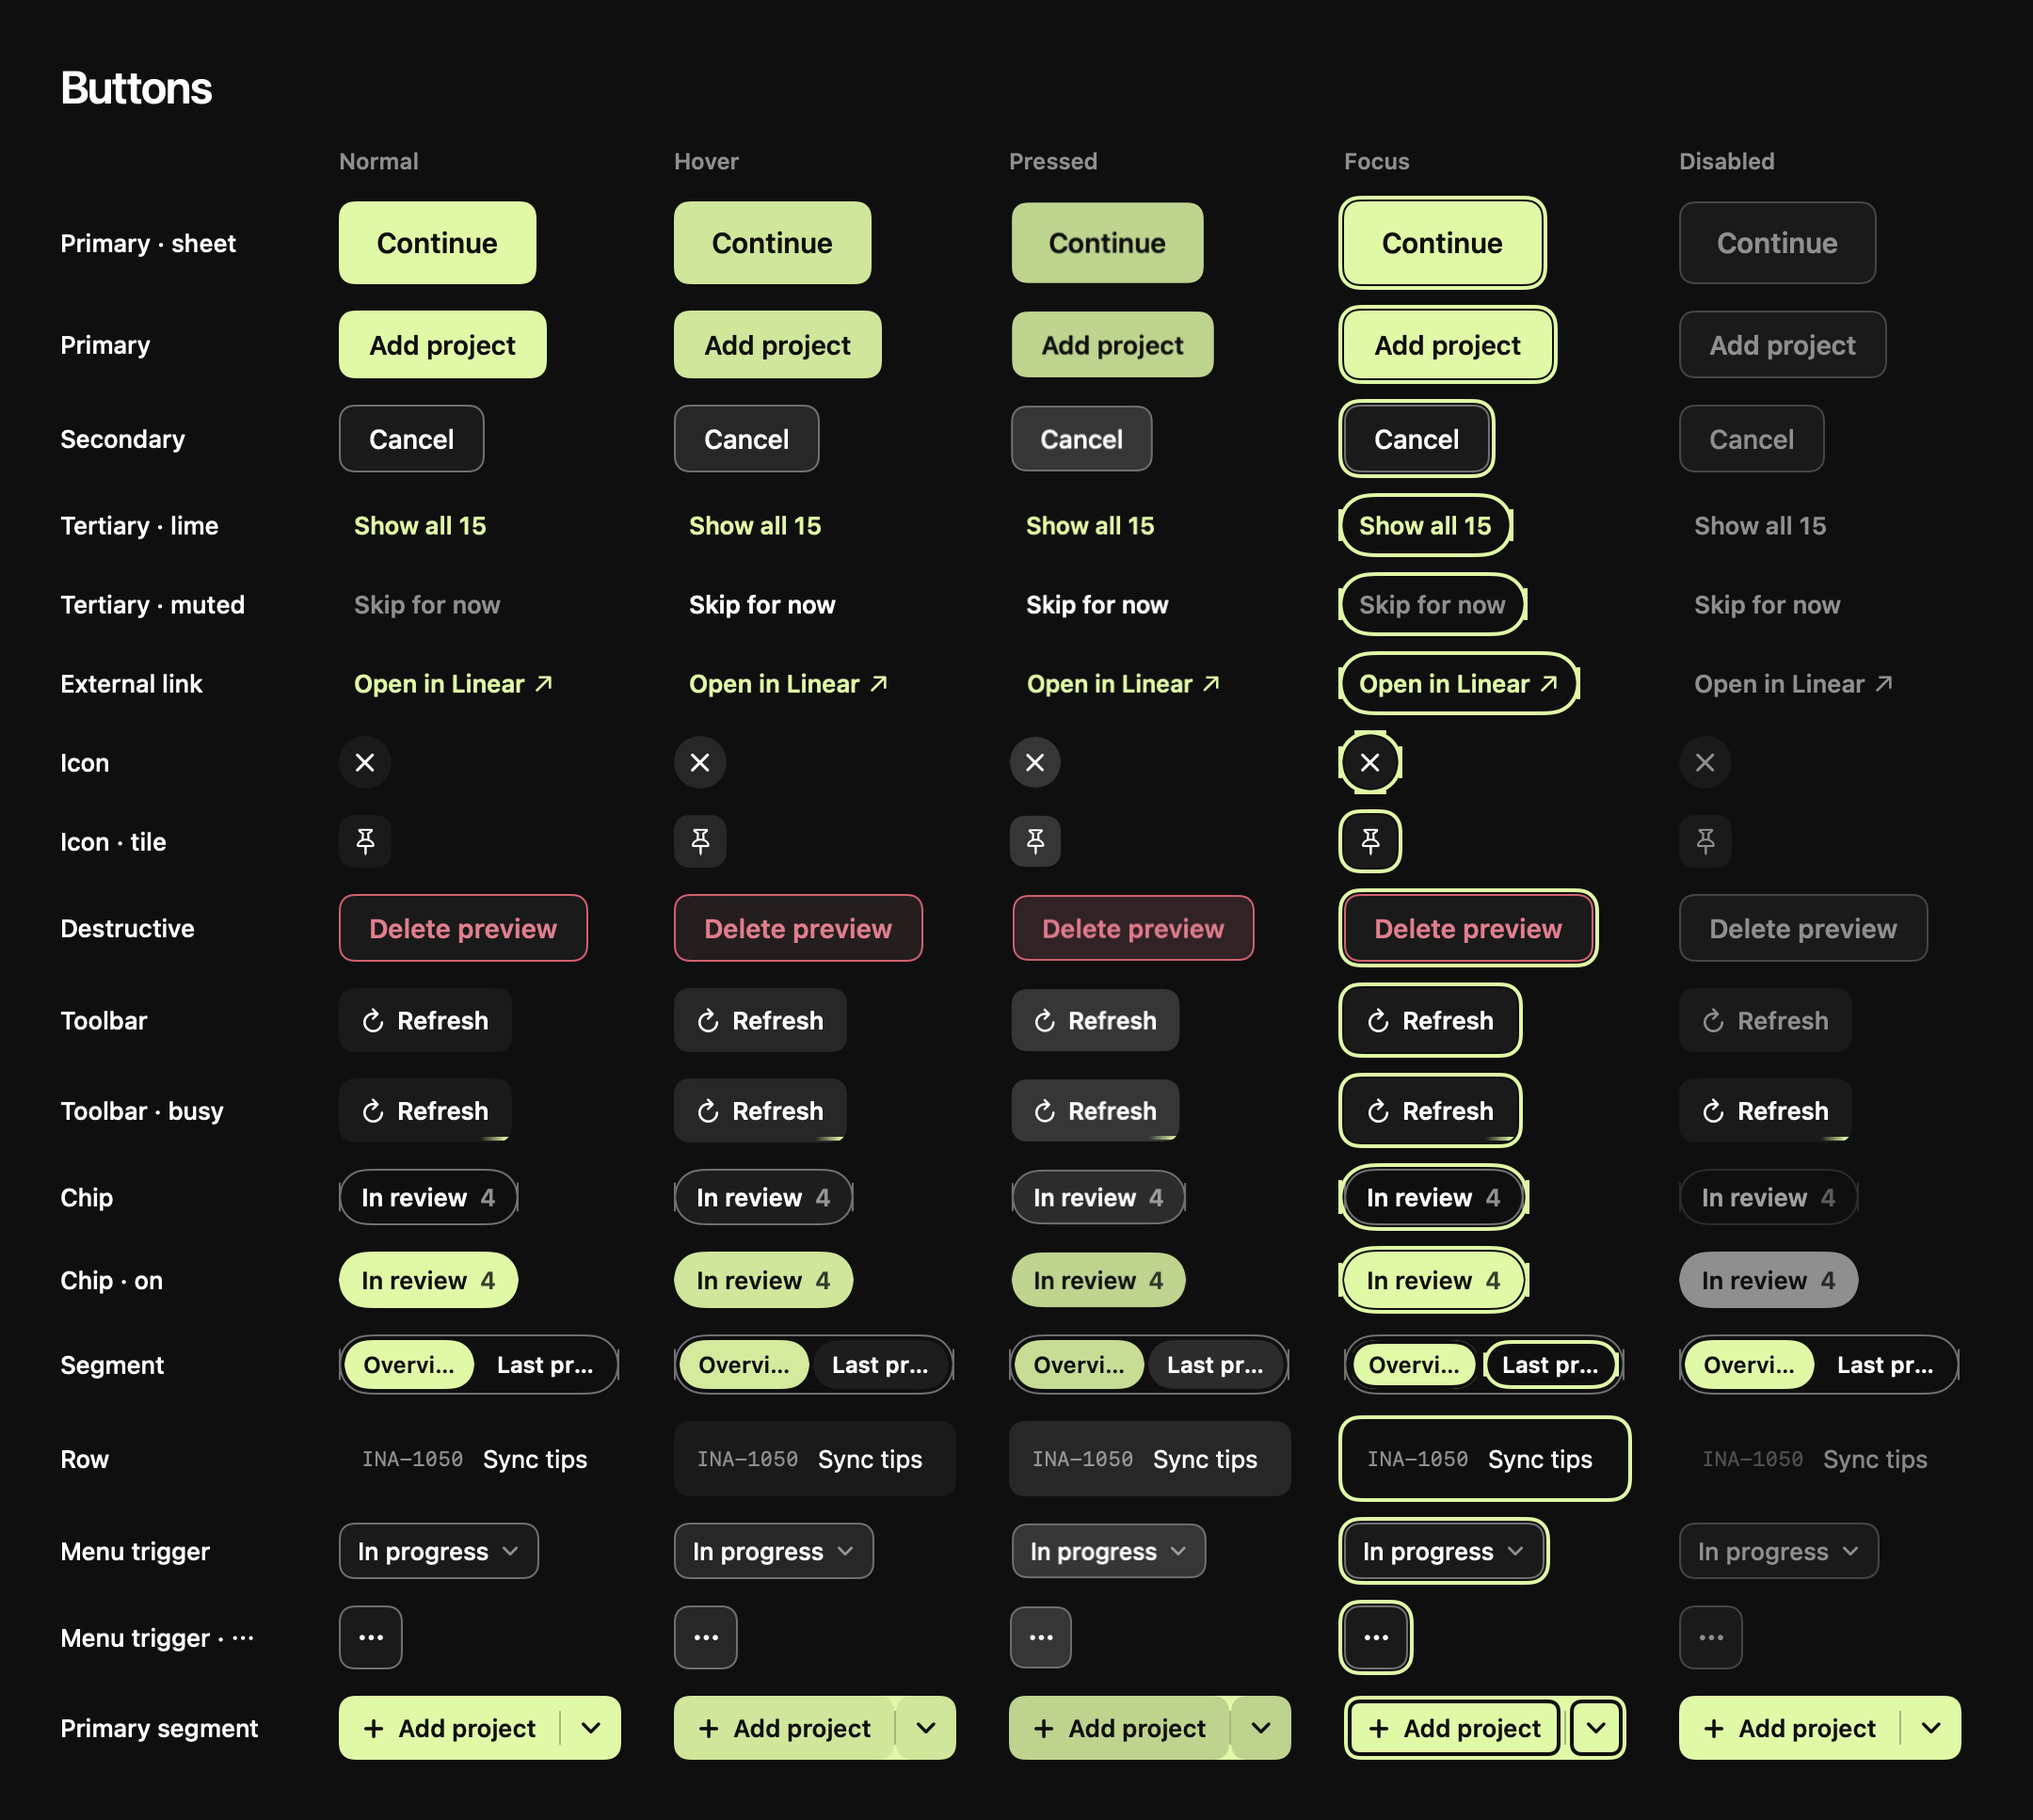
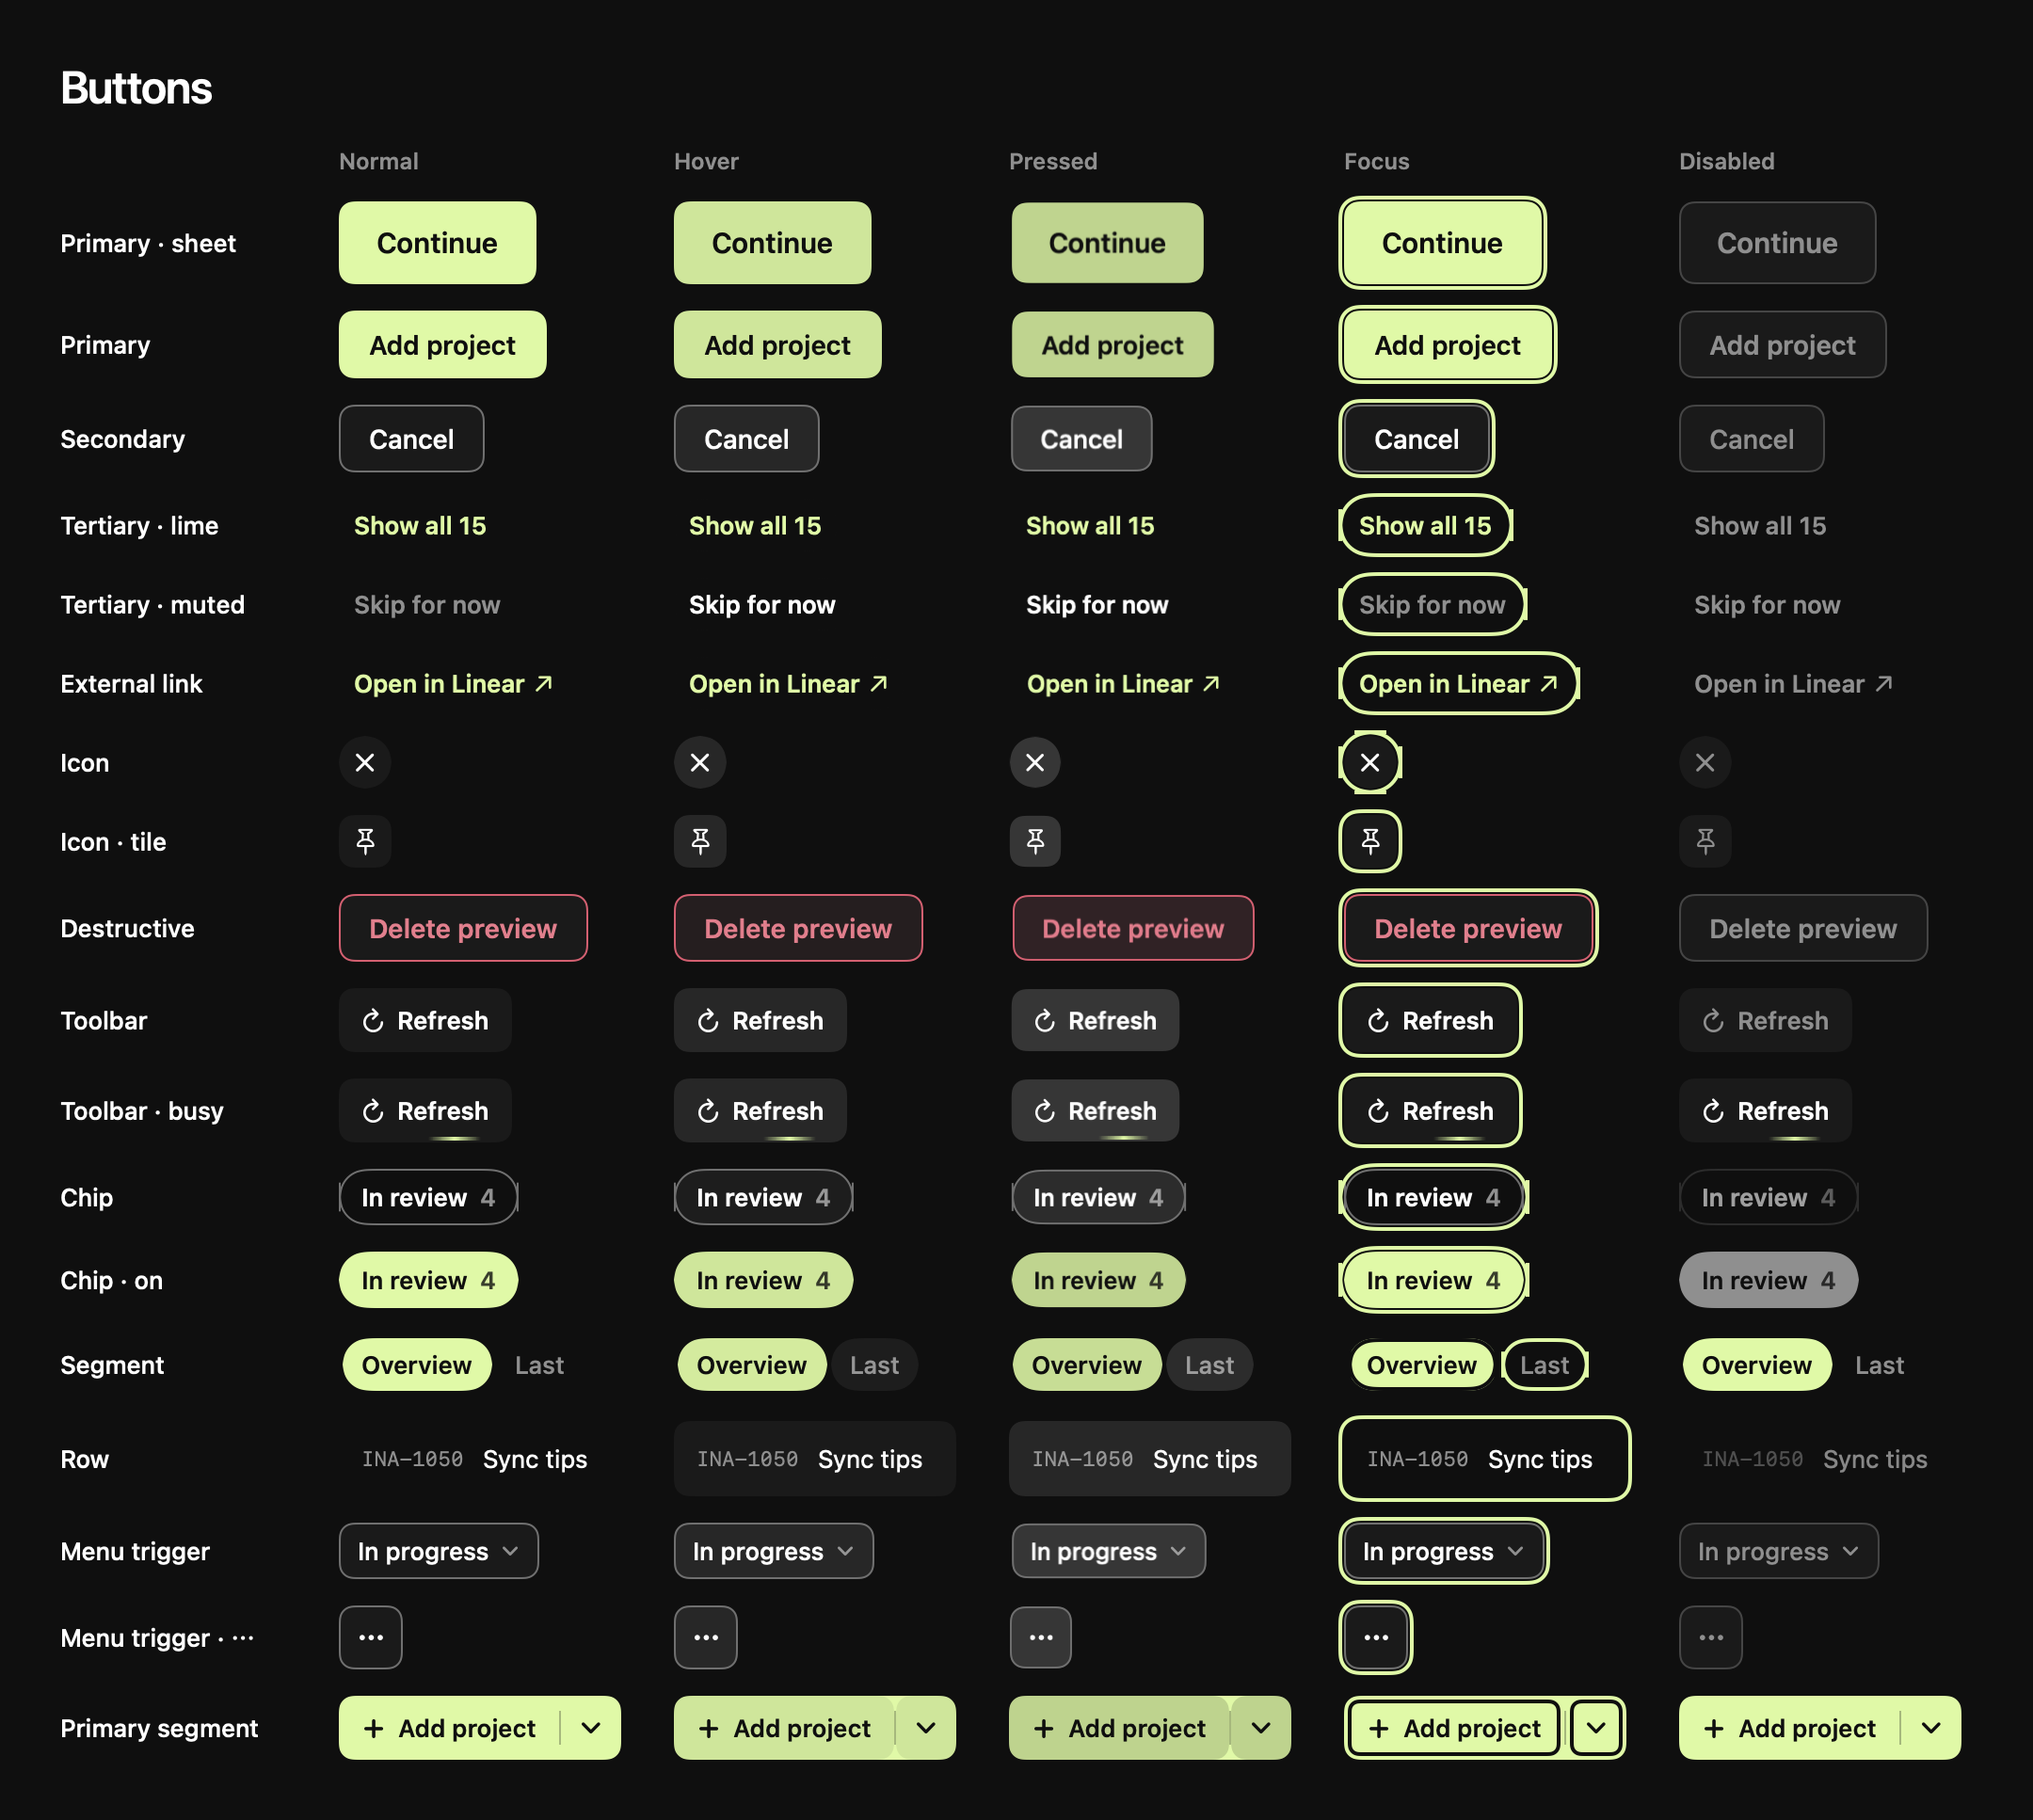
Settings: segment pickers and column chips share one aligned column
Every segment picker is a 360px track on the ground tone with segments of equal
width, so the edges line up from row to row; 32px, 13pt, the words not chosen muted,
the lime pill springing to the choice. The column chips fill the same column as a
2 x 3 grid: a shown column is a surface tile with a lime check, a hidden one sits on
the ground with a dash. Lime goes from nine patches to three on the page.

diff --git a/Sources/Dever/Views/SettingsView.swift b/Sources/Dever/Views/SettingsView.swift
@@ -1242,42 +1242,39 @@ private struct LaunchSection: View {
     }
 }
 
-/// A few mutually exclusive options in one capsule; the lime pill springs to the chosen one.
+/// A few mutually exclusive options in one capsule: a 360pt track on the ground tone, segments of
+/// equal width so every picker's edges line up, the lime pill springing to the chosen one. 32 high,
+/// 13pt; the words not chosen are muted. `width: nil` fills the room it is given (the View popover).
 struct SegmentPicker<Value: Hashable>: View {
     let label: String
     let options: [(label: String, value: Value)]
     @Binding var selection: Value
-    @Environment(\.accessibilityReduceMotion) private var reduceMotion
+    var width: CGFloat? = Buttons.controlWidth
     @Namespace private var pill
 
     var body: some View {
         HStack(spacing: 2) {
             ForEach(options, id: \.value) { option in
                 let on = option.value == selection
-                Button {
-                    withAnimation(reduceMotion ? nil : .spring(response: 0.3, dampingFraction: 0.85)) {
-                        selection = option.value
-                    }
-                } label: {
+                Button { Motion.run(Motion.settle) { selection = option.value } } label: {
                     Text(option.label)
-                        .font(.system(size: 12, weight: .semibold))
-                        .foregroundStyle(on ? Soot.limeInk : Soot.ink)
-                        .padding(.horizontal, 10)
-                        .frame(height: 26)
+                        .font(.system(size: 13, weight: on ? .semibold : .medium))
+                        .foregroundStyle(on ? Soot.limeInk : Soot.muted)
+                        .lineLimit(1)
+                        .frame(maxWidth: .infinity)
+                        .frame(height: 28)
                         .background {
                             if on { Capsule().fill(Soot.lime).matchedGeometryEffect(id: "pill", in: pill) }
                         }
-                        }
-                        .buttonStyle(SegmentButton(on: on))
+                }
+                .buttonStyle(SegmentButton(on: on))
                 .accessibilityAddTraits(on ? .isSelected : [])
             }
         }
-        .padding(3)
+        .padding(2)
+        .frame(width: width, height: 32)
+        .frame(maxWidth: width == nil ? .infinity : nil)
         .background(Soot.ground, in: Capsule())
-        .overlay(Capsule().strokeBorder(Soot.edge))
-        // The stroke is drawn once more a few points taller by the row's layout pass; the
-        // capsule clip keeps only the real one.
-        .clipShape(Capsule())
         .accessibilityElement(children: .contain)
         .accessibilityLabel(label)
     }

diff --git a/Sources/Dever/Views/Buttons.swift b/Sources/Dever/Views/Buttons.swift
@@ -53,6 +53,8 @@ enum Buttons {
     static let toolbarHeight: CGFloat = 34
     static let chipHeight: CGFloat = 30
     static let textHeight: CGFloat = 28
+    /// The column every segment picker and chip grid in Settings fills, so their edges line up.
+    static let controlWidth: CGFloat = 360
     /// The tone a hovered tile or chip takes: ink at 6 %, pressed 12 %. Reads on dark and light.
     static let hoverTone: Double = 0.06
     static let pressTone: Double = 0.12
@@ -505,9 +507,9 @@ struct ButtonGallery: View {
                 row("Chip · on") { chip(on: true) }
                 row("Segment") {
                     HStack(spacing: 2) {
-                        segment("Overview", on: true); segment("Last project", on: false)
+                        segment("Overview", on: true); segment("Last", on: false)
                     }
-                    .padding(3).background(Soot.ground, in: Capsule()).overlay(Capsule().strokeBorder(Soot.edge))
+                    .padding(2).frame(height: 32).background(Soot.ground, in: Capsule())
                 }
                 row("Row") {
                     Button {} label: {
@@ -588,9 +590,9 @@ struct ButtonGallery: View {
 
     private func segment(_ title: String, on: Bool) -> some View {
         Button {} label: {
-            Text(title).font(.system(size: 12, weight: .semibold))
-                .foregroundStyle(on ? Soot.limeInk : Soot.ink)
-                .padding(.horizontal, 10).frame(height: 26)
+            Text(title).font(.system(size: 13, weight: on ? .semibold : .medium))
+                .foregroundStyle(on ? Soot.limeInk : Soot.muted)
+                .padding(.horizontal, 10).frame(height: 28)
                 .background { if on { Capsule().fill(Soot.lime) } }
         }
         .buttonStyle(SegmentButton(on: on))

diff --git a/docs/reviews/buttons.md b/docs/reviews/buttons.md
@@ -31,7 +31,7 @@ on lime the label's ink is used instead (8 % / 16 %).
 | Destructive | `DestructiveButton(size:)` | 44 / 36 | 15 / 14 semibold | surface fill, negative edge, pill-negative ink | + negative 6 % | + negative 12 % | as secondary disabled |
 | Toolbar | `ToolbarButton(busy:)` | 34 | glyph 12 + verb 13 semibold | surface tile, no edge | + ink 6 % | + ink 12 %, scale | muted label; `busy` keeps ink and runs the lime line |
 | Chip | `ChipButton(on:fill:drawsFill:edge:)` | 30 tabs, 26 small chips, 24 reaction pills | 12–13 semibold | capsule on ground/surface, edge; `on`: lime | + ink 6 % (limeInk 8 % when on) | 12 % / 16 %, scale | edge 50 %, 60 % opacity; `on` turns muted fill |
-| Segment | `SegmentButton(on:)` | 26 inside a 32 track | 12 semibold | lime pill slides to the choice | + tone | + tone | — |
+| Segment | `SegmentButton(on:)` in `SegmentPicker` | 28 inside a 32 track, the track 360 wide (`Buttons.controlWidth`), segments of equal width | 13 medium, semibold when chosen | ground track, no edge; lime pill slides to the choice; the rest muted | + tone | + tone | — |
 | Row | `RowButton(lift:radius:)` | the row's height (36–64) | the row's | none | lift one tone (`.ground` 70 %, `.surface`, `.tone` ink 6 %) | lift solid / ink 12 %, no scale | 50 % opacity |
 | Menu trigger | `MenuTriggerButton(open:fill:radius:edge:)` | 30–40 | label's | surface fill, edge | + ink 6 % | + ink 12 % | muted |
 | Primary segment | `PrimarySegment(open:)` | 34 (the split Add project) | 13 semibold | part of a lime capsule | limeInk 8 % | limeInk 16 % | inherits the capsule's lime (not disabled anywhere) |
@@ -108,7 +108,7 @@ has N H P D F ✋ through its style unless noted.
 | 26 | "Reset to defaults" | QuietButton, D | Secondary |
 | 38–50 | `SegmentPicker` ×3 | see SettingsView | Segment |
 | 56, 61 | switches | system Toggle | system; the row gets the hand |
-| 109 | `ColumnChips` (toggle a column) | `.plain` + FocusOutline: N F, on/off | Chip (`on:`) |
+| 109 | `ColumnChips` (toggle a column) | `.plain` + FocusOutline: N F, on/off, lime when on | Chip: 2 × 3 of equal width in the 360 column, 32 high; shown = surface tile + edge + lime check, hidden = ground + muted + dash |
 
 ### Views/ProjectDetailView.swift
 | Line | Element | Before | Role now |
@@ -270,6 +270,10 @@ has N H P D F ✋ through its style unless noted.
 - **Onboarding**: Continue ×3 are 44px primaries; "Skip for now", "Connect", "Cancel" and
   "Open Settings" are tertiary links with a hover pill (they had none); the progress marks
   show the hand and a tooltip where they lead back; the prefix choice rows lift on hover.
+- **Settings › Overview, Launch and the View popover**: the segment pickers share one 360pt column
+  with segments of equal width (edges line up from row to row), a ground track without edge, 32px
+  and 13pt; the column chips fill the same column as a 2 × 3 grid, lime only on the check. Three
+  lime pills on the page instead of nine lime patches.
 - **Settings**: section list rows, appearance thumbnails and status-menu rows lift on hover;
   the status trigger is a menu trigger that turns lime-edged while open; segments get a hover
   tone and the hand; Connect / Reconnect / Cancel / Start / Open System Settings / Copy /

diff --git a/docs/accessibility-review.md b/docs/accessibility-review.md
@@ -355,6 +355,10 @@ and `buttons-light.png`.
 - **Names** (4.1.2): icon-only buttons go through `GlyphButton`, which requires a label used
   both as tooltip and accessible name; the Slack hover strip's three glyphs and both "⋯"
   menus gained tooltips in this pass.
+- **Segment pickers and column chips** (Settings › Overview, Launch, the View popover): track 32px,
+  segments 28px in a 360px column of equal widths; unchosen words `Soot.muted` (5.9:1 dark / 5.5:1
+  light on the ground track), chosen `Soot.limeInk` on lime (16.6 / 7.1:1); a hidden column's chip is
+  muted on ground with a dash, a shown one ink on surface with a lime check and a 3:1 edge.
 - **Targets** (2.5.8): primaries 44 in sheets / 36 in panels, toolbar 34, chips 26–30, text
   links 28 (32 in onboarding), icon buttons 26–40, rows 36–64. The 20px label chip ("+2")
   and the 24px reaction pills stay under 24px in height but sit alone in their line.
